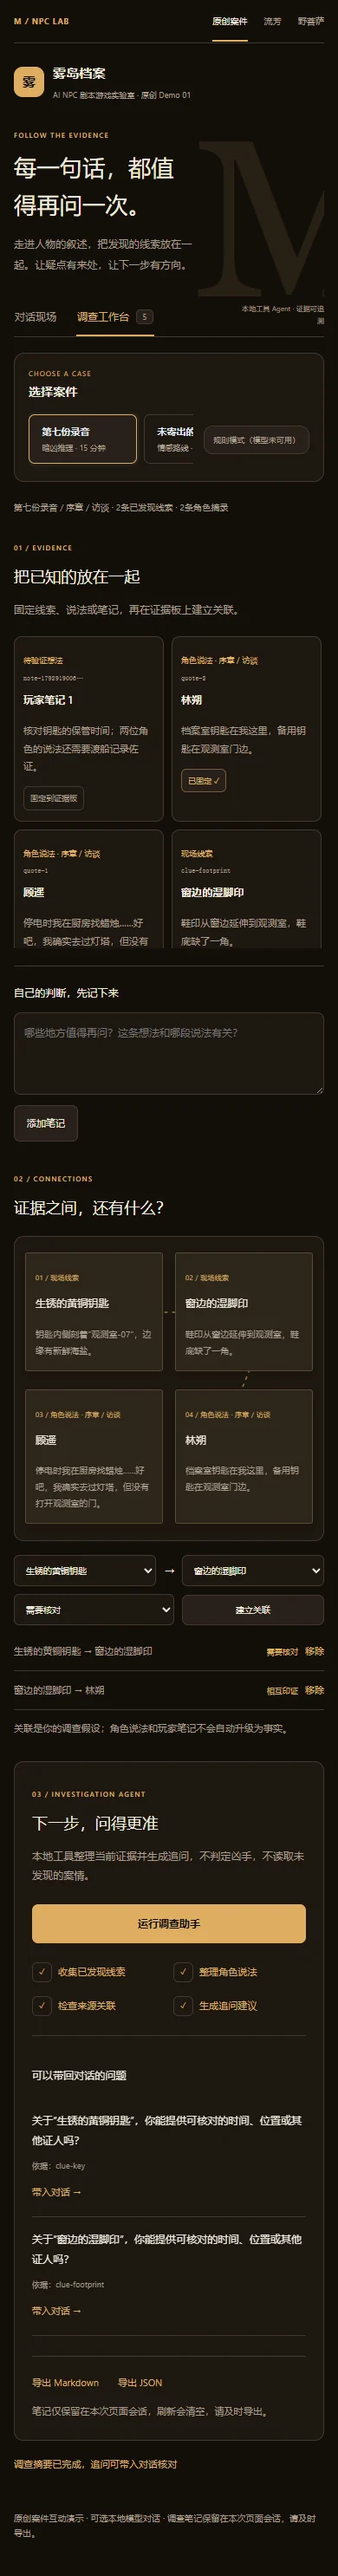
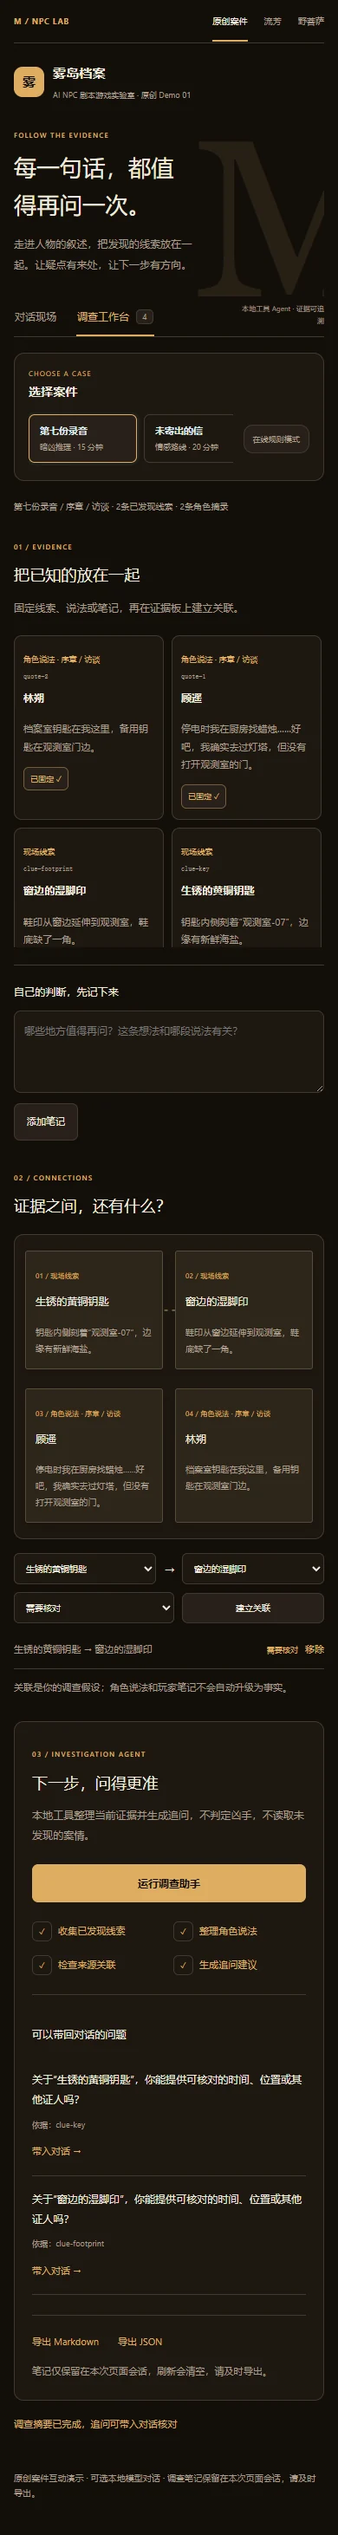
feat: add direct online app entries and verified browser deployment notes

diff --git a/release.html b/release.html
@@ -1,1 +1,1 @@
-<!doctype html><html lang="zh-CN"><head><meta charset="UTF-8"><meta name="viewport" content="width=device-width,initial-scale=1"><title>四项目功能升级与企业使用差距 · 郭嘉辉</title><style>:root{--paper:#f5f5f0;--ink:#172d38;--muted:#5c6d70;--line:#d3dcda;--accent:#255d70}*{box-sizing:border-box}html{scroll-behavior:smooth;scroll-padding-top:25px}body{margin:0;background:var(--paper);color:var(--ink);font:15px/1.9 -apple-system,BlinkMacSystemFont,'Segoe UI','Microsoft YaHei',sans-serif}main{max-width:1160px;margin:auto;padding:48px 34px}a{color:var(--accent);text-underline-offset:4px;overflow-wrap:anywhere}a:focus-visible{outline:2px solid var(--accent);outline-offset:5px}h1{font-size:42px;line-height:1.4;font-weight:550;letter-spacing:-1px;margin:14px 0 22px}h2{font-size:26px;font-weight:550;margin:5px 0}h3{font-size:17px;margin:24px 0 10px}.eyebrow{font:10px/1.8 Consolas,monospace;letter-spacing:1.2px;color:var(--accent)}.lead{max-width:78ch;color:var(--muted)}nav{display:flex;gap:14px;flex-wrap:wrap;padding:20px 0;border-top:1px solid var(--line);border-bottom:1px solid var(--line);margin:30px 0 10px;font-size:12px}article{padding:42px 0;border-bottom:1px solid var(--line)}.project-heading{display:flex;justify-content:space-between;align-items:center;gap:22px}.project-heading>a{font-size:12px;white-space:nowrap}.flow{color:var(--accent);font-size:12px;margin:17px 0 24px}.preview{display:block;border:1px solid var(--line);overflow:hidden;background:#e5ebe7}.preview img{width:100%;height:520px;object-fit:cover;object-position:top;display:block}.caption{font-size:11px;color:var(--muted);margin-top:12px}.caption a{margin-left:9px}.columns{display:grid;grid-template-columns:1fr 1fr;gap:48px}.columns p,.columns li{font-size:13px;color:var(--muted)}ul{padding-left:20px}li+li{margin-top:9px}.use{border-top:1px solid var(--line);padding-top:18px;color:var(--ink)!important}.note{padding:22px 0;color:var(--muted);font-size:13px}footer{font-size:11px;color:var(--muted);margin-top:35px}details{font-size:13px}summary{cursor:pointer}.status{display:inline-block;color:#265e43;font-size:11px;border:1px solid #b6c8bc;padding:3px 9px} @media(max-width:700px){main{padding:28px 19px}h1{font-size:31px}h2{font-size:23px}.columns{grid-template-columns:1fr;gap:4px}.project-heading{align-items:start;display:block}.project-heading>a{display:inline-block;margin-top:10px}.preview img{height:275px}.flow{font-size:11px}article{padding:30px 0}}@media(prefers-reduced-motion:reduce){html{scroll-behavior:auto}}</style></head><body><main><p class="eyebrow">RELEASE NOTES / 2026.10.25</p><h1>让四个原型，<br>各自走完一条有用的流程。</h1><p class="lead">本轮在此前正确性与权限修复基础上，为四个项目增加可操作的工具流程、新界面与状态动效；测试、代码和仓库内 Skill 一起交付。这里逐项列出新增功能、验证与仍需完成的企业条件。</p><p><span class="status">四仓代码已推送 · 对应 GitHub 检查通过</span></p><p class="lead">新规划、调查整理、风格导演和训练复盘使用可追溯的本地规则工具；已有模型接入单独标明。没有使用模型效果或企业认证来替代测试证据。</p><nav><a href="#study">01 学习规划</a><a href="#npc">02 调查工作台</a><a href="#photo">03 影像工坊</a><a href="#shuttle">04 训练实验室</a><a href="https://5503gj.github.io/personal-site/">返回作品集 ↗</a></nav><article id="study"><div class="project-heading"><div><p class="eyebrow">kaogong-study-admin</p><h2>Study Pilot · 七日学习规划</h2></div><a href="https://github.com/5503gj/kaogong-study-admin">查看源码 ↗</a></div><p class="flow">学习画像 → 薄弱方向 → 预算排程 → 校验 → 预览选择 → 确认写入</p><a class="preview" href="assets/previews/study.webp" target="_blank" rel="noopener noreferrer"><img src="assets/previews/study.webp" loading="lazy" alt="Study Pilot · 七日学习规划实机界面"></a><p class="caption">蓝灰 / 靛蓝工作台；浅深主题、桌面侧栏与手机抽屉，Ctrl/⌘K命令导航。 点击图片查看全图。<a href="assets/previews/study-mobile.webp" target="_blank" rel="noopener noreferrer">手机预览 ↗</a></p><div class="columns"><section><h3>已交付</h3><ul><li>三种排程策略、每日时间预算和每周学习天数，七天时间线包含休息日。</li><li>任务显示生成理由；选中后原子写入，每个计划任务有稳定ID，重复操作不新增。</li><li>错题复习队列与已掌握归档，选择计划导出ICS；换行注入与UTF8折行有测试。</li></ul><h3>验证证据</h3><p>35 项单元 + 7 项浏览器 E2E；lint / build通过。</p><p>有效验证包含时间预算/轮转、存储配额失败不污染已有数据、并发批量写入、重复确认、下载、键盘导航和移动端。</p><p><a href="https://github.com/5503gj/kaogong-study-admin/actions/runs/40174909364">成功的GitHub检查 ↗</a> · <a href="https://github.com/5503gj/kaogong-study-admin/commit/2efd6c6072f5e563cf625b71a62944a391b6b097">提交 2efd6c6 ↗</a></p><p><a href="https://github.com/5503gj/kaogong-study-admin/blob/main/skills/study-pilot/SKILL.md">仓库维护 Skill ↗</a></p></section><section><h3>当前边界</h3><p>个人浏览器内工具。学习效果尚未经过真实用户对照评测；默认排程是确定性规则。</p><h3>距离企业使用</h3><ul><li>服务端账号、组织/角色权限与数据库；当前本地空间不等于企业身份认证。</li><li>跨设备同步、审计记录、版本迁移、备份与恢复演练。</li><li>模型密钥代理、费用与访问控制；如启用模型，需要独立验证建议质量和数据流。</li></ul><p class="use">可用于个人学习计划与求职演示；企业团队试用前先补身份与云端数据层。</p></section></div></article><article id="npc"><div class="project-heading"><div><p class="eyebrow">mystery-npc-lab</p><h2>雾岛档案 · 调查工作台</h2></div><a href="https://github.com/5503gj/mystery-npc-lab">查看源码 ↗</a></div><p class="flow">收集已发现线索 → 整理实际角色说法 → 检查来源 → 建议下一问</p><a class="preview" href="assets/previews/npc.webp" target="_blank" rel="noopener noreferrer"><img src="assets/previews/npc.webp" loading="lazy" alt="雾岛档案 · 调查工作台实机界面"></a><p class="caption">暖黑 / 琥珀的调查界面；三页统一导航、对话与调查切换，证据连线和状态反馈。 点击图片查看全图。<a href="assets/previews/npc-mobile.webp" target="_blank" rel="noopener noreferrer">手机预览 ↗</a></p><div class="columns"><section><h3>已交付</h3><ul><li>事实、角色说法、玩家笔记分开；选择固定证据并手动标记印证、冲突或待核对。</li><li>调查助手只读取当前案件的已知内容；问题带来源ID，可直接带入对话继续核对。</li><li>三页接入；案件笔记隔离，JSON / Markdown导出。场景切换取消旧回复，文字安全显示。</li></ul><h3>验证证据</h3><p>8 项 Python + 3 项 JS 单元 + 2 组浏览器流程通过。</p><p>有效验证包含来源投影、跨案件隔离、隐藏字段不进入导出、模型文字/笔记XSS、关联、问题带入、导出与手机布局。</p><p><a href="https://github.com/5503gj/mystery-npc-lab/actions/runs/40176218447">成功的GitHub检查 ↗</a> · <a href="https://github.com/5503gj/mystery-npc-lab/commit/472868127b90cabf10bdb35651def1e28579cb96">提交 4728681 ↗</a></p><p><a href="https://github.com/5503gj/mystery-npc-lab/blob/main/skills/evidence-director/SKILL.md">仓库维护 Skill ↗</a></p></section><section><h3>当前边界</h3><p>调查助手为本地规则工具；角色对话可连接Ollama，失败明确回退规则。笔记仅存在当前页面会话，刷新清空。截图使用规则模式，不作为真实模型质量证据。</p><h3>距离企业使用</h3><ul><li>持久化、用户及内容管理、会话恢复、权限与租户隔离。</li><li>真实模型的剧透、角色一致性、越界提示和叙事体验评测，保留人工剧情控制。</li><li>并发负载、限流/资源治理、内容及素材许可，模型部署与运行监控。</li></ul><p class="use">适合交互叙事作品和本地试玩；商用游戏仍需内容生产、模型评测与在线服务层。</p></section></div></article><article id="photo"><div class="project-heading"><div><p class="eyebrow">photo-style-gallery</p><h2>FORM · 影像风格工坊</h2></div><a href="https://github.com/5503gj/photo-style-gallery">查看源码 ↗</a></div><p class="flow">读取像素 → 分析主色与轮廓 → 选择用途和参数 → 三款试片 → 导出</p><a class="preview" href="assets/previews/photo.webp" target="_blank" rel="noopener noreferrer"><img src="assets/previews/photo.webp" loading="lazy" alt="FORM · 影像风格工坊实机界面"></a><p class="caption">奶油纸色 / 陶土编辑器；源图、主画布、导演桌三栏，手机自适应，试片和结果有反馈动效。 点击图片查看全图。<a href="assets/previews/photo-mobile.webp" target="_blank" rel="noopener noreferrer">手机预览 ↗</a></p><div class="columns"><section><h3>已交付</h3><ul><li>从真实亮度/边缘密度/颜色出发推荐参数，一次实际生成三张PNG，可点击切换与继续微调。</li><li>原图/结果拖动和键盘比较；显示真实主色、推荐依据与工具耗时。</li><li>轮廓SVG与ZIP套装；清单含源图SHA256和实际参数，不打包原始上传文件。</li><li>原创程序绘制静物示例，10MiB/1200万像素上限、队列限制和有界过期缓存。</li></ul><h3>验证证据</h3><p>36 项 Python（含真实Gradio接口）+ 浏览器完整流程通过。</p><p>有效验证包含图像统计、非法参数、SVG路径和大小边界、实际ZIP文件、源图不外泄、缓存容量/过期清理，以及真实生成/选图/对比/下载/清除。</p><p><a href="https://github.com/5503gj/photo-style-gallery/actions/runs/40178668966">成功的GitHub检查 ↗</a> · <a href="https://github.com/5503gj/photo-style-gallery/commit/bf45b6e6b553255ad298452ce1f06e87b250963d">提交 bf45b6e ↗</a></p><p><a href="https://github.com/5503gj/photo-style-gallery/blob/main/skills/style-director/SKILL.md">仓库维护 Skill ↗</a></p></section><section><h3>当前边界</h3><p>确定性图像算法；SVG为轮廓提取，非语义矢量化。远程访问时图片上传服务器，两层缓存清理不等于即时擦除或用户隔离。</p><h3>距离企业使用</h3><ul><li>多租户隔离、访问授权、数据加密与可审计的保留/删除机制。</li><li>真实人像/产品/复杂背景盲评，按图片类型评估质量；并发、内存和延迟基准。</li><li>隔离执行环境、依赖升级/漏洞扫描、任务恢复与生产监控；若增加模型，另加授权与费用控制。</li></ul><p class="use">可作为本地图像工具；共享对外服务前先补隔离、留存和运行保障。</p></section></div></article><article id="shuttle"><div class="project-heading"><div><p class="eyebrow">shuttlekit</p><h2>ShuttleKit · 训练实验室</h2></div><a href="https://github.com/5503gj/shuttlekit">查看源码 ↗</a></div><p class="flow">读取当前窗口 → 核对来源与比例 → 统计 → 编排目标练习 → 勾选与导出</p><a class="preview" href="assets/previews/shuttle.webp" target="_blank" rel="noopener noreferrer"><img src="assets/previews/shuttle.webp" loading="lazy" alt="ShuttleKit · 训练实验室实机界面"></a><p class="caption">雾白 / 球场绿；会话设置、画面轨迹、复盘教练三栏与独立工具Tab，回放可暂停或键盘逐点查看。 点击图片查看全图。<a href="assets/previews/shuttle-mobile.webp" target="_blank" rel="noopener noreferrer">手机预览 ↗</a></p><div class="columns"><section><h3>已交付</h3><ul><li>使用最近300个真实接收点，重算时间间隔、画面路径和速度；模拟/设备声明/未验证逐点保存，混合来源提示。</li><li>轨迹按采样时间间隔比例回放，总时长自适应0.8–12秒；场地背景明确不是物理落点。</li><li>三个训练目标，18分钟四项练习；显示依据、完成勾选，JSON / Markdown导出无令牌。</li><li>只读显示端也能复盘；窗口更新提示快照过期，请求可取消，过期回复不覆盖结果。</li></ul><h3>验证证据</h3><p>89 项 Python + 原有/教练两组真实浏览器流程通过。</p><p>有效验证包含未知与零、细小比例、源窗口截断、越界/非法点、读写和跨会话权限、真实广播、导出、回放、取消/失败、重置及未标定单位。</p><p><a href="https://github.com/5503gj/shuttlekit/actions/runs/40178982554">成功的GitHub检查 ↗</a> · <a href="https://github.com/5503gj/shuttlekit/commit/3fac0622c4438f36405bda15d2d024e6c0c16730">提交 3fac062 ↗</a></p><p><a href="https://github.com/5503gj/shuttlekit/blob/main/skills/training-coach/SKILL.md">仓库维护 Skill ↗</a></p></section><section><h3>当前边界</h3><p>二维投影估计，未标定只报告px/s；来源是发送端声明，不是设备认证。模拟不评价运动能力，训练任务来自所选目标，不自动诊断动作。</p><h3>距离企业使用</h3><ul><li>代表性合法真实视频、独立测速真值、几何/三维标定和跨机位误差验证。</li><li>设备身份、凭据撤销/轮换、场馆租户隔离、数据库、消息总线与备份恢复。</li><li>视频编解码隔离、吞吐/延迟SLO、设备离线与重连治理、监控及HTTPS/WSS；装备价格和许可持续维护。</li></ul><p class="use">可作为数据链路和训练记录实验工具；在独立真值验证前，不适合商业测速承诺。</p></section></div></article><section class="note"><h2>框架参考与维护方式</h2><p>参考官方仓库 <a href="https://github.com/langchain-ai/langgraph">LangGraph</a> 的有状态工具与人工确认模式、<a href="https://github.com/assistant-ui/assistant-ui">assistant-ui</a> 的工具结果交互、<a href="https://github.com/xyflow/xyflow">xyflow</a> 的关联表达，以及 <a href="https://github.com/pbakaus/impeccable">Impeccable</a> 的设计方法。保留原技术栈，自行实现所需的小模块；没有声称已集成这些框架，也没有复制其代码或素材。</p><p>每仓包含 PRODUCT.md、DESIGN.md、docs/DESIGN_REFERENCES.md 与专用 SKILL.md。Skill 是维护和扩展指南，未伪装成已经自动安装、执行或具备大模型能力的运行系统。</p><h3>部署位置</h3><p>Study Pilot 可在 <a href="https://5503gj.github.io/kaogong-study-admin/">GitHub Pages 在线体验</a>；其余三个项目代码已更新到GitHub，按README在本地运行。Python / Ollama / WebSocket后端需要独立服务环境，不能仅靠GitHub Pages运行。</p><h3>下一阶段的合理顺序</h3><p>先做真实场景试用与质量基线，再补身份、存储、隔离与可观测性，最后根据明确的使用规模增加模型和部署能力。功能增多不等于可以直接承诺企业生产可用。</p></section><footer>验证日期：2026-10-25。截图为本次版本的真实本地运行画面；模拟、规则与程序绘制示例已分别标注。研究与个人履历不在此次版本中新增或改写。</footer></main></body></html>
+<!doctype html><html lang="zh-CN"><head><meta charset="UTF-8"><meta name="viewport" content="width=device-width,initial-scale=1"><title>四项目功能升级与企业使用差距 · 郭嘉辉</title><style>:root{--paper:#f5f5f0;--ink:#172d38;--muted:#5c6d70;--line:#d3dcda;--accent:#255d70}*{box-sizing:border-box}html{scroll-behavior:smooth;scroll-padding-top:25px}body{margin:0;background:var(--paper);color:var(--ink);font:15px/1.9 -apple-system,BlinkMacSystemFont,'Segoe UI','Microsoft YaHei',sans-serif}main{max-width:1160px;margin:auto;padding:48px 34px}a{color:var(--accent);text-underline-offset:4px;overflow-wrap:anywhere}a:focus-visible{outline:2px solid var(--accent);outline-offset:5px}h1{font-size:42px;line-height:1.4;font-weight:550;letter-spacing:-1px;margin:14px 0 22px}h2{font-size:26px;font-weight:550;margin:5px 0}h3{font-size:17px;margin:24px 0 10px}.eyebrow{font:10px/1.8 Consolas,monospace;letter-spacing:1.2px;color:var(--accent)}.lead{max-width:78ch;color:var(--muted)}nav{display:flex;gap:14px;flex-wrap:wrap;padding:20px 0;border-top:1px solid var(--line);border-bottom:1px solid var(--line);margin:30px 0 10px;font-size:12px}article{padding:42px 0;border-bottom:1px solid var(--line)}.project-heading{display:flex;justify-content:space-between;align-items:center;gap:22px}.project-heading>a{font-size:12px;white-space:nowrap}.flow{color:var(--accent);font-size:12px;margin:17px 0 24px}.preview{display:block;border:1px solid var(--line);overflow:hidden;background:#e5ebe7}.preview img{width:100%;height:520px;object-fit:cover;object-position:top;display:block}.caption{font-size:11px;color:var(--muted);margin-top:12px}.caption a{margin-left:9px}.columns{display:grid;grid-template-columns:1fr 1fr;gap:48px}.columns p,.columns li{font-size:13px;color:var(--muted)}ul{padding-left:20px}li+li{margin-top:9px}.use{border-top:1px solid var(--line);padding-top:18px;color:var(--ink)!important}.note{padding:22px 0;color:var(--muted);font-size:13px}footer{font-size:11px;color:var(--muted);margin-top:35px}details{font-size:13px}summary{cursor:pointer}.status{display:inline-block;color:#265e43;font-size:11px;border:1px solid #b6c8bc;padding:3px 9px} @media(max-width:700px){main{padding:28px 19px}h1{font-size:31px}h2{font-size:23px}.columns{grid-template-columns:1fr;gap:4px}.project-heading{align-items:start;display:block}.project-heading>a{display:inline-block;margin-top:10px}.preview img{height:275px}.flow{font-size:11px}article{padding:30px 0}}@media(prefers-reduced-motion:reduce){html{scroll-behavior:auto}}</style></head><body><main><p class="eyebrow">RELEASE NOTES / 2026.10.25</p><h1>让四个原型，<br>各自走完一条有用的流程。</h1><p class="lead">本轮在此前正确性与权限修复基础上，为四个项目增加可操作的工具流程、新界面与状态动效；测试、代码和仓库内 Skill 一起交付。本轮进一步部署了三个免安装在线版本。这里逐项列出功能、验证与仍需完成的企业条件。</p><p><span class="status">四个应用可在线体验 · GitHub 检查与部署通过</span></p><p class="lead">新规划、调查整理、风格导演和训练复盘使用可追溯的本地规则工具；已有模型接入单独标明。没有使用模型效果或企业认证来替代测试证据。</p><nav><a href="#study">01 学习规划</a><a href="#npc">02 调查工作台</a><a href="#photo">03 影像工坊</a><a href="#shuttle">04 训练实验室</a><a href="https://5503gj.github.io/personal-site/">返回作品集 ↗</a></nav><article id="study"><div class="project-heading"><div><p class="eyebrow">kaogong-study-admin</p><h2>Study Pilot · 七日学习规划</h2></div><a href="https://5503gj.github.io/kaogong-study-admin/">直接在线体验 ↗</a></div><p class="flow">学习画像 → 薄弱方向 → 预算排程 → 校验 → 预览选择 → 确认写入</p><a class="preview" href="assets/previews/study.webp" target="_blank" rel="noopener noreferrer"><img src="assets/previews/study.webp" loading="lazy" alt="Study Pilot · 七日学习规划实机界面"></a><p class="caption">蓝灰 / 靛蓝工作台；浅深主题、桌面侧栏与手机抽屉，Ctrl/⌘K命令导航。 点击图片查看全图。<a href="assets/previews/study-mobile.webp" target="_blank" rel="noopener noreferrer">手机预览 ↗</a></p><div class="columns"><section><h3>已交付</h3><ul><li>三种排程策略、每日时间预算和每周学习天数，七天时间线包含休息日。</li><li>任务显示生成理由；选中后原子写入，每个计划任务有稳定ID，重复操作不新增。</li><li>错题复习队列与已掌握归档，选择计划导出ICS；换行注入与UTF8折行有测试。</li></ul><h3>验证证据</h3><p>35 项单元 + 7 项浏览器 E2E；lint / build通过。</p><p>有效验证包含时间预算/轮转、存储配额失败不污染已有数据、并发批量写入、重复确认、下载、键盘导航和移动端。</p><p><a href="https://github.com/5503gj/kaogong-study-admin/actions/runs/40174909364">成功的GitHub检查 ↗</a> · <a href="https://github.com/5503gj/kaogong-study-admin/commit/2efd6c6072f5e563cf625b71a62944a391b6b097">提交 2efd6c6 ↗</a></p><p><a href="https://github.com/5503gj/kaogong-study-admin/blob/main/skills/study-pilot/SKILL.md">仓库维护 Skill ↗</a></p></section><section><h3>当前边界</h3><p>个人浏览器内工具。学习效果尚未经过真实用户对照评测；默认排程是确定性规则。</p><h3>距离企业使用</h3><ul><li>服务端账号、组织/角色权限与数据库；当前本地空间不等于企业身份认证。</li><li>跨设备同步、审计记录、版本迁移、备份与恢复演练。</li><li>模型密钥代理、费用与访问控制；如启用模型，需要独立验证建议质量和数据流。</li></ul><p class="use">可用于个人学习计划与求职演示；企业团队试用前先补身份与云端数据层。</p></section></div></article><article id="npc"><div class="project-heading"><div><p class="eyebrow">mystery-npc-lab</p><h2>雾岛档案 · 调查工作台</h2></div><a href="https://5503gj.github.io/mystery-npc-lab/">直接在线体验 ↗</a></div><p class="flow">收集已发现线索 → 整理实际角色说法 → 检查来源 → 建议下一问</p><a class="preview" href="assets/previews/npc.webp" target="_blank" rel="noopener noreferrer"><img src="assets/previews/npc.webp" loading="lazy" alt="雾岛档案 · 调查工作台实机界面"></a><p class="caption">暖黑 / 琥珀的调查界面；三页统一导航、对话与调查切换，证据连线和状态反馈。 点击图片查看全图。<a href="assets/previews/npc-mobile.webp" target="_blank" rel="noopener noreferrer">手机预览 ↗</a></p><div class="columns"><section><h3>已交付</h3><ul><li>事实、角色说法、玩家笔记分开；选择固定证据并手动标记印证、冲突或待核对。</li><li>调查助手只读取当前案件的已知内容；问题带来源ID，可直接带入对话继续核对。</li><li>三页接入；案件笔记隔离，JSON / Markdown导出。场景切换取消旧回复，文字安全显示。</li></ul><h3>验证证据</h3><p>8 项 Python + 3 项 JS 单元 + 原有两组及在线浏览器流程通过。</p><p>有效验证包含来源投影、跨案件隔离、隐藏字段不进入导出、模型文字/笔记XSS、关联、问题带入、导出与手机布局。</p><p><a href="https://github.com/5503gj/mystery-npc-lab/actions/runs/40181732310">成功的GitHub检查 ↗</a> · <a href="https://github.com/5503gj/mystery-npc-lab/commit/6a379d8ed22c7cbb05978346e8e3bfb4397450bc">提交 6a379d8 ↗</a></p><p><a href="https://github.com/5503gj/mystery-npc-lab/blob/main/skills/evidence-director/SKILL.md">仓库维护 Skill ↗</a></p></section><section><h3>当前边界</h3><p>在线版直接运行规则剧情，无需本地API；调查助手为规则工具。Python服务版可连接Ollama，失败明确回退规则。笔记仅存在当前页面会话，刷新清空。截图为已部署的规则模式，不作为真实模型质量证据。</p><h3>距离企业使用</h3><ul><li>持久化、用户及内容管理、会话恢复、权限与租户隔离。</li><li>真实模型的剧透、角色一致性、越界提示和叙事体验评测，保留人工剧情控制。</li><li>并发负载、限流/资源治理、内容及素材许可，模型部署与运行监控。</li></ul><p class="use">适合交互叙事作品和在线试玩；商用游戏仍需内容生产、模型评测与在线服务层。</p></section></div></article><article id="photo"><div class="project-heading"><div><p class="eyebrow">photo-style-gallery</p><h2>FORM · 影像风格工坊</h2></div><a href="https://5503gj.github.io/photo-style-gallery/">直接在线体验 ↗</a></div><p class="flow">读取像素 → 分析主色与轮廓 → 选择用途和参数 → 三款试片 → 导出</p><a class="preview" href="assets/previews/photo.webp" target="_blank" rel="noopener noreferrer"><img src="assets/previews/photo.webp" loading="lazy" alt="FORM · 影像风格工坊实机界面"></a><p class="caption">奶油纸色 / 陶土编辑器；源图、主画布、导演桌三栏，手机自适应，试片和结果有反馈动效。 点击图片查看全图。<a href="assets/previews/photo-mobile.webp" target="_blank" rel="noopener noreferrer">手机预览 ↗</a></p><div class="columns"><section><h3>已交付</h3><ul><li>从真实亮度/边缘密度/颜色出发推荐参数，一次实际生成三张PNG，可点击切换与继续微调。</li><li>原图/结果拖动和键盘比较；显示真实主色、推荐依据与工具耗时。</li><li>轮廓SVG与ZIP套装；清单含源图SHA256和实际参数，不打包原始上传文件。</li><li>原创程序绘制静物示例，10MiB/1200万像素上限、队列限制和有界过期缓存。</li></ul><h3>验证证据</h3><p>36 项 Python（含真实Gradio接口）+ 服务/在线浏览器流程 + 2 项资源回退测试通过。</p><p>有效验证包含图像统计、非法参数、SVG路径和大小边界、实际ZIP文件、源图不外泄、缓存容量/过期清理，以及真实生成/选图/对比/下载/清除。</p><p><a href="https://github.com/5503gj/photo-style-gallery/actions/runs/40182367331">成功的GitHub检查 ↗</a> · <a href="https://github.com/5503gj/photo-style-gallery/commit/4d252ce05565935934623e81d4bbe4d0517fa6a4">提交 4d252ce ↗</a></p><p><a href="https://github.com/5503gj/photo-style-gallery/blob/main/skills/style-director/SKILL.md">仓库维护 Skill ↗</a></p></section><section><h3>当前边界</h3><p>在线版在浏览器Worker实际执行同一Python/OpenCV算法，图片不上传；首次约28MB引擎，优先固定版本官方加速源并可回退本站。SVG为轮廓提取。另保留Gradio服务版，其远程访问会上传到服务器，缓存不等于用户隔离。</p><h3>距离企业使用</h3><ul><li>多租户隔离、访问授权、数据加密与可审计的保留/删除机制。</li><li>真实人像/产品/复杂背景盲评，按图片类型评估质量；并发、内存和延迟基准。</li><li>隔离执行环境、依赖升级/漏洞扫描、任务恢复与生产监控；若增加模型，另加授权与费用控制。</li></ul><p class="use">在线浏览器版可直接处理自己的图片；如使用共享Python服务，先补隔离、留存和运行保障。</p></section></div></article><article id="shuttle"><div class="project-heading"><div><p class="eyebrow">shuttlekit</p><h2>ShuttleKit · 训练实验室</h2></div><a href="https://5503gj.github.io/shuttlekit/">直接在线体验 ↗</a></div><p class="flow">读取当前窗口 → 核对来源与比例 → 统计 → 编排目标练习 → 勾选与导出</p><a class="preview" href="assets/previews/shuttle.webp" target="_blank" rel="noopener noreferrer"><img src="assets/previews/shuttle.webp" loading="lazy" alt="ShuttleKit · 训练实验室实机界面"></a><p class="caption">雾白 / 球场绿；会话设置、画面轨迹、复盘教练三栏与独立工具Tab，回放可暂停或键盘逐点查看。 点击图片查看全图。<a href="assets/previews/shuttle-mobile.webp" target="_blank" rel="noopener noreferrer">手机预览 ↗</a></p><div class="columns"><section><h3>已交付</h3><ul><li>使用最近300个真实接收点，重算时间间隔、画面路径和速度；模拟/设备声明/未验证逐点保存，混合来源提示。</li><li>轨迹按采样时间间隔比例回放，总时长自适应0.8–12秒；场地背景明确不是物理落点。</li><li>三个训练目标，18分钟四项练习；显示依据、完成勾选，JSON / Markdown导出无令牌。</li><li>只读显示端也能复盘；窗口更新提示快照过期，请求可取消，过期回复不覆盖结果。</li></ul><h3>验证证据</h3><p>89 项 Python + 原有/教练/在线三组浏览器流程 + 2 项资源回退测试通过。</p><p>有效验证包含未知与零、细小比例、源窗口截断、越界/非法点、读写和跨会话权限、真实广播、导出、回放、取消/失败、重置及未标定单位。</p><p><a href="https://github.com/5503gj/shuttlekit/actions/runs/40182823061">成功的GitHub检查 ↗</a> · <a href="https://github.com/5503gj/shuttlekit/commit/e2f7ecb676df3bae69117a84ce7b3aeb0fb3a977">提交 e2f7ecb ↗</a></p><p><a href="https://github.com/5503gj/shuttlekit/blob/main/skills/training-coach/SKILL.md">仓库维护 Skill ↗</a></p></section><section><h3>当前边界</h3><p>在线版为页面内存会话，支持轨迹JSON导入/导出，不跨设备实时同步。浏览器视频最多60秒、50MiB、720p/10Hz采样；按原视频比例同步缩放，沿用候选点算法。未标定仅px/s，模拟不评价能力；服务版保留WebSocket。</p><h3>距离企业使用</h3><ul><li>代表性合法真实视频、独立测速真值、几何/三维标定和跨机位误差验证。</li><li>设备身份、凭据撤销/轮换、场馆租户隔离、数据库、消息总线与备份恢复。</li><li>视频编解码隔离、吞吐/延迟SLO、设备离线与重连治理、监控及HTTPS/WSS；装备价格和许可持续维护。</li></ul><p class="use">可直接在线体验轨迹、视频分析与训练复盘；页面数据不云端同步，在真值验证前不作商业测速承诺。</p></section></div></article><section class="note"><h2>框架参考与维护方式</h2><p>参考官方仓库 <a href="https://github.com/langchain-ai/langgraph">LangGraph</a> 的有状态工具与人工确认模式、<a href="https://github.com/assistant-ui/assistant-ui">assistant-ui</a> 的工具结果交互、<a href="https://github.com/xyflow/xyflow">xyflow</a> 的关联表达，以及 <a href="https://github.com/pbakaus/impeccable">Impeccable</a> 的设计方法。保留原技术栈，自行实现所需的小模块；没有声称已集成这些框架，也没有复制其代码或素材。</p><p>每仓包含 PRODUCT.md、DESIGN.md、docs/DESIGN_REFERENCES.md 与专用 SKILL.md。Skill 是维护和扩展指南，未伪装成已经自动安装、执行或具备大模型能力的运行系统。</p><h3>部署位置</h3><p>Study Pilot 可在 <a href="https://5503gj.github.io/kaogong-study-admin/">GitHub Pages 在线体验</a>；另外三个应用现在也可直接在线使用：<a href="https://5503gj.github.io/mystery-npc-lab/">NPC调查工作台</a>、<a href="https://5503gj.github.io/photo-style-gallery/">FORM影像工坊</a>、<a href="https://5503gj.github.io/shuttlekit/">ShuttleKit训练实验室</a>。NPC提供规则剧情；图片和训练版在浏览器运行原Python核心，免安装、免账号，图片与视频不上传。Ollama与跨设备实时服务仍由独立后端提供。</p><h3>下一阶段的合理顺序</h3><p>先做真实场景试用与质量基线，再补身份、存储、隔离与可观测性，最后根据明确的使用规模增加模型和部署能力。功能增多不等于可以直接承诺企业生产可用。</p></section><footer>验证日期：2026-10-25。截图为本次版本的真实运行画面（后三项为正式在线版）；模拟、规则与程序绘制示例已分别标注。研究与个人履历不在此次版本中新增或改写。</footer></main></body></html>

diff --git a/index.html b/index.html
@@ -33,15 +33,16 @@
 
 <section class="section wrap" id="projects">
  <div class="section-head"><div><p class="eyebrow">SELECTED WORK</p><h2>让项目说明能力。</h2></div><p>从研究实验到公开原型，<br>看问题、方法与实现边界。</p></div>
- <div class="release-note"><span>2026.10 / 四个应用已升级</span><a href="release.html">查看功能、验证与企业使用差距 ↗</a></div>
+ <div class="release-note"><span>2026.10 / 四个应用均可在线体验</span><a href="release.html">查看功能、验证与企业使用差距 ↗</a></div>
+<div class="demo-intro"><strong>打开一个应用，直接试试看。</strong><span>无需安装 · 图片与训练引擎首次加载约28MB</span></div><div class="demo-launcher" role="navigation" aria-label="直接体验在线应用"><a href="https://5503gj.github.io/mystery-npc-lab/" target="_blank" rel="noopener noreferrer" data-demo="npc"><span>01</span><div><strong>雾岛调查</strong><small>剧情 / 证据 / 追问</small></div><b>↗</b></a><a href="https://5503gj.github.io/photo-style-gallery/" target="_blank" rel="noopener noreferrer" data-demo="photo"><span>02</span><div><strong>影像工坊</strong><small>试片 / 对比 / SVG</small></div><b>↗</b></a><a href="https://5503gj.github.io/shuttlekit/" target="_blank" rel="noopener noreferrer" data-demo="shuttle"><span>03</span><div><strong>训练实验室</strong><small>回放 / 复盘 / 视频</small></div><b>↗</b></a><a href="https://5503gj.github.io/kaogong-study-admin/" target="_blank" rel="noopener noreferrer" data-demo="study"><span>04</span><div><strong>七日学习规划</strong><small>排程 / 复习 / 日历</small></div><b>↗</b></a></div>
  <div class="filters" aria-label="按方向筛选项目"><button class="active" data-filter="all" aria-pressed="true">全部项目</button><button data-filter="llm" aria-pressed="false">LLM / RAG</button><button data-filter="ml" aria-pressed="false">机器学习</button><button data-filter="engineering" aria-pressed="false">应用工程</button><span id="result-count" aria-live="polite">7 个项目</span></div>
  <div class="project-grid">
   <article class="project featured" data-category="llm engineering">
-    <div class="project-label"><span class="mono">01 / LLM APPLICATION</span><span class="badge">公开源码 · 原型</span></div>
-    <h3>AI NPC 互动实验室</h3><p class="project-desc">本地模型对话与证据调查工作台：分清事实、角色说法和笔记，手动关联线索，把助手建议带回对话核对。</p>
-<figure class="release-preview"><a href="assets/previews/npc.webp" target="_blank" rel="noopener noreferrer" aria-label="打开NPC调查工作台：线索、角色说法、证据关联与调查助手大图"><img src="assets/previews/npc.webp" alt="NPC调查工作台：线索、角色说法、证据关联与调查助手" loading="lazy" width="1440" height="1000"><span>查看实机大图 ↗</span></a><figcaption>规则模式实机截图 · 8 Python + 3 JS 测试及 2 组浏览器流程通过</figcaption></figure>
+    <div class="project-label"><span class="mono">01 / LLM APPLICATION</span><span class="badge">在线体验 · 规则模式</span></div>
+    <h3>AI NPC 互动实验室</h3><p class="project-desc">在线规则剧情与证据调查工作台：分清事实、角色说法和笔记，手动关联线索，把助手建议带回对话核对。</p>
+<figure class="release-preview"><a href="assets/previews/npc.webp" target="_blank" rel="noopener noreferrer" aria-label="打开NPC调查工作台：线索、角色说法、证据关联与调查助手大图"><img src="assets/previews/npc.webp" alt="NPC调查工作台：线索、角色说法、证据关联与调查助手" loading="lazy" width="1440" height="1000"><span>查看实机大图 ↗</span></a><figcaption>规则模式实机截图 · 8 Python + 3 JS 测试及在线端到端验证通过</figcaption></figure>
     <div class="tags"><span>Python</span><span>Ollama</span><span>Context Design</span></div>
-    <div class="project-bottom"><button data-detail="npc">查看实现思路 <span>↗</span></button><a href="https://github.com/5503gj/mystery-npc-lab" target="_blank" rel="noopener noreferrer">GitHub ↗</a></div>
+    <div class="project-bottom"><a class="experience-link" href="https://5503gj.github.io/mystery-npc-lab/" target="_blank" rel="noopener noreferrer">直接体验 ↗</a><button data-detail="npc">查看实现思路 <span>↗</span></button><a href="https://github.com/5503gj/mystery-npc-lab" target="_blank" rel="noopener noreferrer">GitHub ↗</a></div>
   </article>
   <article class="project cv-project" data-category="ml">
     <div class="project-label"><span class="mono">02 / COMPUTER VISION</span><span class="badge">研究项目</span></div>
@@ -67,17 +68,17 @@
     <div class="project-bottom"><button data-detail="dct">查看实验设置 <span>↗</span></button><span>2026.09 — 至今</span></div>
   </article>
   <article class="project small-project" data-category="engineering llm">
-    <div class="project-label"><span class="mono">05 / PYTHON · API</span><span class="badge">公开源码 · MVP</span></div>
-    <h3>ShuttleKit</h3><p>实时会话与训练复盘：轨迹回放、来源与标定核对、目标练习清单、JSON / Markdown 导出和只读同步。</p>
-<figure class="release-preview"><a href="assets/previews/shuttle.webp" target="_blank" rel="noopener noreferrer" aria-label="打开ShuttleKit轨迹回放与训练复盘教练大图"><img src="assets/previews/shuttle.webp" alt="ShuttleKit轨迹回放与训练复盘教练" loading="lazy" width="1440" height="1000"><span>查看实机大图 ↗</span></a><figcaption>模拟坐标实机截图 · 89 Python 测试及 2 组浏览器流程通过</figcaption></figure>
+    <div class="project-label"><span class="mono">05 / PYTHON · API</span><span class="badge">在线体验 · 浏览器计算</span></div>
+    <h3>ShuttleKit</h3><p>浏览器内运行训练工具：轨迹导入与回放、训练复盘、视频候选点分析、装备推荐和报告导出。</p>
+<figure class="release-preview"><a href="assets/previews/shuttle.webp" target="_blank" rel="noopener noreferrer" aria-label="打开ShuttleKit轨迹回放与训练复盘教练大图"><img src="assets/previews/shuttle.webp" alt="ShuttleKit轨迹回放与训练复盘教练" loading="lazy" width="1440" height="1000"><span>查看实机大图 ↗</span></a><figcaption>模拟坐标实机截图 · 89 Python 测试及在线端到端验证通过</figcaption></figure>
     <div class="tags"><span>FastAPI</span><span>WebSocket</span></div>
-    <div class="project-bottom"><button data-detail="shuttle">查看工程实现 <span>↗</span></button><a href="https://github.com/5503gj/shuttlekit" target="_blank" rel="noopener noreferrer">源码 ↗</a></div>
+    <div class="project-bottom"><a class="experience-link" href="https://5503gj.github.io/shuttlekit/" target="_blank" rel="noopener noreferrer">直接体验 ↗</a><button data-detail="shuttle">查看工程实现 <span>↗</span></button><a href="https://github.com/5503gj/shuttlekit" target="_blank" rel="noopener noreferrer">源码 ↗</a></div>
   </article>
   <article class="project small-project" data-category="engineering">
-    <div class="project-label"><span class="mono">06 / IMAGE PROCESSING</span><span class="badge">公开源码</span></div>
+    <div class="project-label"><span class="mono">06 / IMAGE PROCESSING</span><span class="badge">在线体验 · 浏览器计算</span></div>
     <h3>FORM · 影像风格工坊</h3><p>从实际主色和轮廓分析出发，一次生成三款试片；支持前后对比、参数微调、轮廓 SVG 与可复现的 ZIP 套装。</p><figure class="release-preview"><a href="assets/previews/photo.webp" target="_blank" rel="noopener noreferrer" aria-label="打开FORM影像工坊的三款试片、前后对比、像素分析和导出大图"><img src="assets/previews/photo.webp" alt="FORM影像工坊的三款试片、前后对比、像素分析和导出" loading="lazy" width="1440" height="1000"><span>查看实机大图 ↗</span></a><figcaption>程序绘制示例实机截图 · 36 Python 测试及浏览器完整流程通过</figcaption></figure>
     <div class="tags"><span>OpenCV</span><span>Gradio</span></div>
-    <div class="project-bottom"><button data-detail="photo">查看处理与测试 <span>↗</span></button><a href="https://github.com/5503gj/photo-style-gallery" target="_blank" rel="noopener noreferrer">源码 ↗</a></div>
+    <div class="project-bottom"><a class="experience-link" href="https://5503gj.github.io/photo-style-gallery/" target="_blank" rel="noopener noreferrer">直接体验 ↗</a><button data-detail="photo">查看处理与测试 <span>↗</span></button><a href="https://github.com/5503gj/photo-style-gallery" target="_blank" rel="noopener noreferrer">源码 ↗</a></div>
   </article>
   <article class="project study-project" data-category="engineering llm"><div><div class="project-label"><span class="mono">07 / STUDY PILOT</span><span class="badge">公开源码 · 可体验</span></div><h3>Study Pilot · 七日学习规划</h3><p>读取学习与错题画像，按预算和策略生成计划，预览勾选后确认写入，支持日历导出、复习队列与 Ctrl/⌘K 命令面板。</p><p class="caption">本地规则工具，不将排程建议称为模型预测；数据保存在当前浏览器。</p><div class="tags"><span>React / TypeScript</span><span>Atomic Storage</span><span>35 单元 + 7 E2E</span></div><div class="project-bottom"><button data-detail="study">查看规划与验证 ↗</button><a href="https://5503gj.github.io/kaogong-study-admin/" target="_blank" rel="noopener noreferrer">在线体验 ↗</a><a href="https://github.com/5503gj/kaogong-study-admin" target="_blank" rel="noopener noreferrer">源码 ↗</a></div></div><figure class="release-preview"><a href="assets/previews/study.webp" target="_blank" rel="noopener noreferrer" aria-label="打开Study Pilot七日计划预览与工具执行记录大图"><img src="assets/previews/study.webp" alt="Study Pilot七日计划预览与工具执行记录" loading="lazy" width="1440" height="1000"><span>查看实机大图 ↗</span></a><figcaption>实机截图 · 确认后批量写入，重复操作不新增</figcaption></figure></article>
  </div>

diff --git a/script.js b/script.js
@@ -1,11 +1,11 @@
 const projects = {
   npc: {
-    title: "AI NPC 互动实验室", tag: "LLM 应用 / 公开源码 / 原型",
+    title: "AI NPC 互动实验室", tag: "在线规则剧情 / 可选本地模型 / 证据调查",
     sections: [
       ["场景", "围绕角色与关系开展互动对话。模型需要根据当前对象、场景和已公开线索作答，同时保留程序对剧情状态的控制。"],
-      ["公开代码中的实现", ["Python 本地服务调用 Ollama，服务端核对场景、角色和公开线索ID；失败时明确回退规则。", "调查工作台将已发现线索、实际角色回复、玩家笔记分开；支持固定、手动关联、问题建议与 JSON / Markdown 导出。", "四个本地工具读取当前证据并列出依据，不自动判定凶手，不把角色说法升级成事实。"]],
-      ["当前边界", "8 Python + 3 JS 单元测试及两组浏览器流程验证工程行为，不证明真实模型叙事质量。调查笔记仅保留在本页会话，刷新清空；长期存储、账号和模型剧透/一致性评测仍待完成。"]
-    ], url: "https://github.com/5503gj/mystery-npc-lab", source: "依据仓库 README 与 server.py，核对于 2026-10-25。"
+      ["公开代码中的实现", ["网页直接体验规则剧情，免安装且不请求本地API；Python服务版保留可选Ollama与场景/角色/线索ID校验。", "调查工作台将已发现线索、实际角色回复、玩家笔记分开；支持固定、手动关联、问题建议与 JSON / Markdown 导出。", "四个本地工具读取当前证据并列出依据，不自动判定凶手，不把角色说法升级成事实。"]],
+      ["当前边界", "8 Python + 3 JS 单元测试、原有两组及在线浏览器流程验证工程行为，不证明真实模型叙事质量。调查笔记仅保留在本页会话，刷新清空；长期存储、账号和模型剧透/一致性评测仍待完成。"]
+    ], demo: "https://5503gj.github.io/mystery-npc-lab/", url: "https://github.com/5503gj/mystery-npc-lab", source: "依据仓库 README 与 server.py，核对于 2026-10-25。"
   },
   cv: {
     title: "猫外周血白细胞自动检测", tag: "目标检测 / 2026.01 — 2026.07",
@@ -34,18 +34,18 @@ const projects = {
   shuttle: {
     title: "ShuttleKit", tag: "Python / FastAPI / WebSocket / MVP",
     sections: [
-      ["工程实现", ["FastAPI 与 WebSocket 支持带能力令牌的会话读写、只读显示和多端广播。", "训练复盘教练读取最近300点，核对来源与标定，计算窗口统计，再按所选目标编排18分钟练习；支持回放、勾选与导出。", "模拟/设备声明/未验证来源逐点保留；无比例只给px/s，界面场地只是画面轨迹示意。器材推荐维持预算约束与来源标注。"]],
-      ["项目阶段", "实时会话使用进程内存保存，视频分析为轻量 CV MVP。复杂机位下仍需验证与更严格的场地标定；演示数据和估算值不等于专业测量结果。"],
-      ["验证与企业条件", "89 Python 测试及两组浏览器流程覆盖权限、广播、统计、回放、取消与导出。企业使用仍需真实测速真值和误差验证、设备身份、租户隔离、持久化、共享消息总线与运行监控。"]
-    ], url: "https://github.com/5503gj/shuttlekit", source: "依据仓库 README、speed_api.py 与 equipment_kb/ai_advisor.py，核对于 2026-10-25。"
+      ["工程实现", ["FastAPI 与 WebSocket 支持带能力令牌的会话读写、只读显示和多端广播。", "在线版在浏览器运行原Python核心：导入最近300点、回放、核对来源/标定、目标练习、装备推荐与报告导出。", "模拟/设备声明/未验证来源逐点保留；无比例只给px/s，界面场地只是画面轨迹示意。器材推荐维持预算约束与来源标注。"]],
+      ["项目阶段", "在线会话在当前页面内存运行，不跨设备实时同步。浏览器视频最多60秒/50MiB、720p/10Hz采样；共用原候选点算法，不代表专业高速测速。服务版保留WebSocket同步。"],
+      ["验证与企业条件", "89 Python 测试、两项资源回退测试及三组浏览器流程覆盖权限、广播、统计、回放、取消与导出。企业使用仍需真实测速真值和误差验证、设备身份、租户隔离、持久化、共享消息总线与运行监控。"]
+    ], demo: "https://5503gj.github.io/shuttlekit/", url: "https://github.com/5503gj/shuttlekit", source: "依据仓库 README、speed_api.py 与 equipment_kb/ai_advisor.py，核对于 2026-10-25。"
   },
   photo: {
     title: "FORM · 影像风格工坊", tag: "Python / OpenCV / Gradio / Style Director",
     sections: [
       ["新流程", "读取真实亮度、边缘密度和主色，按用途生成三种风格试片；点击切换、前后拖动或键盘对比，参数可继续微调。"],
-      ["可复现交付", ["导出三张PNG、原图轮廓SVG与ZIP参数清单，保留源图摘要、真实参数与工具耗时。", "10MiB / 1200万像素上传上限、单任务队列、两层临时缓存清理。", "36 Python 测试与真实浏览器完整流程覆盖算法、真实接口、ZIP、缓存、方案切换、下载和手机布局。"]],
-      ["实现边界", "本地图像算法与规则工具，不训练生成模型；SVG是轮廓提取。远程访问会上传服务器；企业使用还需多租户隔离、删除审计、性能基准与真实图片盲评。"]
-    ], url: "https://github.com/5503gj/photo-style-gallery", source: "依据仓库 README、lineart_core.py 与 test_lineart.py，核对于 2026-10-25。"
+      ["可复现交付", ["导出三张PNG、原图轮廓SVG与ZIP参数清单，保留源图摘要、真实参数与工具耗时。", "两版都限制10MiB / 1200万像素；在线版在Worker内计算，服务版另有单任务队列与两层临时缓存清理。", "36 Python 测试、两项资源回退测试与服务/在线浏览器完整流程覆盖算法、真实接口、ZIP、缓存、方案切换、下载和手机布局。"]],
+      ["实现边界", "在线版通过WebAssembly实际执行原Python/OpenCV算法，照片不上传；首次引擎约28MB，随后缓存。SVG是轮廓提取。另保留Gradio服务版，其远程访问会上传到服务器；企业采用仍需真实盲评与运行保障。"]
+    ], demo: "https://5503gj.github.io/photo-style-gallery/", url: "https://github.com/5503gj/photo-style-gallery", source: "依据仓库 README、lineart_core.py 与 test_lineart.py，核对于 2026-10-25。"
   },
   study: {
     title: "Study Pilot · 七日学习规划", tag: "React / TypeScript / 本地规则工具",
@@ -72,6 +72,7 @@ document.querySelectorAll("[data-detail]").forEach(button => button.addEventList
     if (Array.isArray(body)) { const list = document.createElement("ul"); body.forEach(t => list.append(node("li", t))); content.append(list); }
     else content.append(node("p", body));
   });
+  if (project.demo) { const a = node("a", "直接在线体验 ↗", "dialog-link experience-link"); a.href = project.demo; a.target="_blank";a.rel="noopener noreferrer";content.append(a); }
   if (project.url) { const a = node("a", "在 GitHub 查看源码 ↗", "dialog-link"); a.href = project.url; a.target = "_blank"; a.rel = "noopener noreferrer"; content.append(a); }
   content.append(node("p", project.source, "source-note"));
   dialog.showModal(); dialog.scrollTop = 0; document.body.classList.add("modal-open");

diff --git a/style.css b/style.css
@@ -3,3 +3,4 @@
 .noscript-note { margin:0; padding:12px 24px; background:#e8edeb; color:#172f3b; font-size:13px; }
 .release-note{display:flex;justify-content:space-between;align-items:center;gap:18px;padding:14px 0;margin:-3px 0 22px;border-top:1px solid var(--line);border-bottom:1px solid var(--line);font-size:11px;color:var(--muted)}.release-note a{color:var(--blue);text-decoration:underline;text-underline-offset:4px}.release-preview{margin:17px 0 15px;min-width:0}.release-preview>a{display:block;position:relative;background:var(--navy);overflow:hidden;border:1px solid var(--line)}.release-preview img{display:block;width:100%;height:245px;object-fit:cover;object-position:top;transition:transform 220ms cubic-bezier(.22,1,.36,1)}.release-preview a:hover img{transform:scale(1.015)}.release-preview a>span{position:absolute;right:8px;bottom:8px;background:var(--paper);padding:3px 8px;color:var(--ink);font-size:9px;border:1px solid var(--line)}.release-preview figcaption{font-size:9px;color:var(--muted);line-height:1.8;margin-top:8px}.study-project>.release-preview{flex:1;max-width:50%;margin:0}.study-project>.release-preview img{height:260px}.study-project .project-bottom{flex-wrap:wrap;margin-top:20px;padding-bottom:0}.project .release-preview+h3{margin-top:12px}@media(max-width:720px){.release-note{display:block;font-size:10px}.release-note a{display:block;margin-top:7px}.release-preview img{height:205px}.study-project>.release-preview{max-width:100%;width:100%;flex:auto}.study-project>.release-preview img{height:215px}}@media(prefers-reduced-motion:reduce){.release-preview img{transition:none}}
 .featured .release-preview img{object-position:center 45%}.small-project .release-preview img{object-position:center 35%}.study-project>.release-preview img{object-position:center 40%}
+.demo-intro{display:flex;justify-content:space-between;align-items:center;gap:18px;font-size:12px;margin:24px 0 15px}.demo-intro strong{font-weight:550}.demo-intro>span{font-size:10px;color:var(--muted)}.demo-launcher{display:grid;grid-template-columns:repeat(4,minmax(0,1fr));border-top:1px solid var(--line);border-bottom:1px solid var(--line);margin-bottom:27px}.demo-launcher>a{display:flex;gap:12px;align-items:center;padding:20px 14px;border-right:1px solid var(--line);min-width:0;transition:background 180ms,color 180ms}.demo-launcher>a:first-child{padding-left:5px}.demo-launcher>a:last-child{border-right:0}.demo-launcher>a:hover{background:#e8eeea;color:var(--blue)}.demo-launcher>a>span{font:10px Consolas,monospace;color:var(--muted)}.demo-launcher strong{font-size:13px;font-weight:600;display:block}.demo-launcher small{font-size:9px;color:var(--muted);display:block;margin-top:5px}.demo-launcher b{font-weight:400;margin-left:auto;color:var(--blue)}.project-bottom{flex-wrap:wrap}.project-bottom>.experience-link{padding:7px 11px;background:var(--navy);color:var(--white);font-size:11px;white-space:nowrap}.project-bottom>.experience-link:hover{color:var(--lime)}.dialog-link+.dialog-link{margin-left:10px}@media(max-width:720px){.demo-intro{display:block;margin-top:20px}.demo-intro>span{display:block;margin-top:7px;font-size:10px}.demo-launcher{grid-template-columns:1fr 1fr}.demo-launcher>a{padding:17px 8px;gap:8px}.demo-launcher>a:nth-child(2){border-right:0}.demo-launcher>a:nth-child(-n+2){border-bottom:1px solid var(--line)}.demo-launcher>a:nth-child(3){padding-left:5px}.demo-launcher strong{font-size:12px}.demo-launcher small{font-size:8px}.project-bottom>.experience-link{font-size:10px;padding:6px 9px}}@media(prefers-reduced-motion:reduce){.demo-launcher>a{transition:none}}

diff --git a/README.md b/README.md
@@ -23,3 +23,14 @@
 研究指标及实习经历来自提供的简历；未把候选记录数解释为性能提升。四个应用已增加学习规划、证据工作台、风格导演和训练复盘。默认新工具流程采用可解释的本地规则；原有模型接口另行标明。ShuttleKit已修复多客户端广播，但仍需实测误差验证与生产基础设施；NPC笔记仅页面内存；图片处理为传统算法；本地学习空间不等于企业身份认证。详见发布清单。
 
 本轮验证 320/390/855/1440 像素适配、筛选、7个详情弹窗、键盘关闭和焦点恢复、无JavaScript正文、PDF下载；发布页另验1440/768/390/320、全部截图加载和本地独立HTML。四项目对应CI均成功，报告链接固定到本次提交。旧版主页可通过 Git 历史查看。`resume/`、`assets/css/`、`assets/js/` 为原有历史材料，当前首页不使用。
+
+## 四个应用直接体验
+
+主页新增四个快捷入口，三个新上线项目也在卡片与详情弹窗提供直接链接：
+
+- [NPC调查工作台](https://5503gj.github.io/mystery-npc-lab/)：在线规则模式，免本地API。
+- [FORM影像工坊](https://5503gj.github.io/photo-style-gallery/)：浏览器实际运行原Python/OpenCV算法，图片不上传。
+- [ShuttleKit](https://5503gj.github.io/shuttlekit/)：浏览器轨迹、训练与视频候选点分析，数据不上传。
+- [Study Pilot](https://5503gj.github.io/kaogong-study-admin/)：七日规划、复习与日历。
+
+图片与训练引擎首次约28MB，优先官方固定版本加速源，失败回退本站。NPC在线版不提供Ollama推理，Shuttle浏览器会话不提供云端跨设备实时同步；服务版代码仍保留。正式网址已执行真实交互与下载验收。
